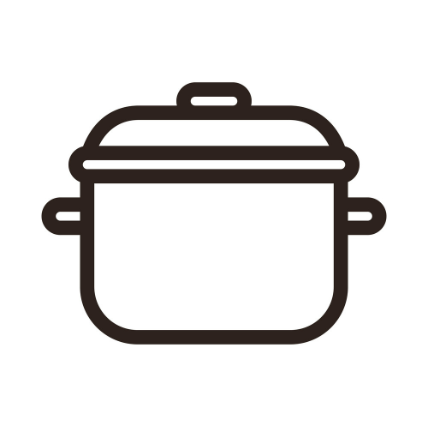
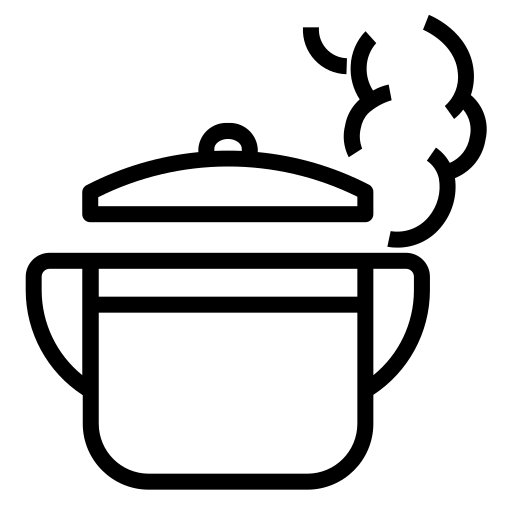
added images to recipe.html and design

Changed region(s): [[0.0305, 0.0305, 0.9765, 0.9765]]

diff --git a/recipe.js b/recipe.js
@@ -26,14 +26,18 @@ async function fetchData() {
     document.getElementById('source').innerText=data.sourceName;
     for(let i=0; i<data.extendedIngredients.length; i++){
       const elem=document.createElement('span');
-      elem.innerText=data.extendedIngredients[i].name;
-      document.getElementById('ingredients').appendChild(elem);
-    }
+
+        elem.innerText=data.extendedIngredients[i].measures.metric.amount +' '+ data.extendedIngredients[i].measures.metric.unitShort + "  " + data.extendedIngredients[i].name ;
+        document.getElementById('ingredients').appendChild(elem);
+        console.log(elem);
+
+  }
+
     for(let i=0; i<data.analyzedInstructions.length; i++){
       for(let j=0; j<data.analyzedInstructions[i].steps.length; j++){
       const elem=document.createElement('li');
       elem.innerText=data.analyzedInstructions[i].steps[j].step;
-      console.log(elem);
+      //console.log(elem);
       document.getElementById('ol').appendChild(elem);
       }
   }

diff --git a/recipe.css b/recipe.css
@@ -1,10 +1,18 @@
+body{
+    font-family:Verdana, Geneva, Tahoma, sans-serif;
+    font-weight:normal;
+    background-color: #2d2d30;
+    color: #ffffff; 
+    font-size: 50px;
+}
+
 #title{
     text-align: center;
 }
 
 #container{
     display: grid;
-    grid-template-columns: auto auto auto;
+    grid-template-columns: 31% 38% 31%;
     font-size: 20px;
     font-family: 'Segoe UI', Tahoma, Geneva, Verdana, sans-serif;
     text-align: center;
@@ -31,8 +39,8 @@
 }
 
 #icon{
-    width: 50px;
-    height: 50px;
+    width: 90px;
+    height: 90px;
 }
 
 #description{
@@ -54,3 +62,4 @@
 #steps{
     width: 55%;
 }
+

diff --git a/recipe.html b/recipe.html
@@ -8,7 +8,7 @@
   </head>
   <body>
 
-    <h1 id="title"></h1>
+    <h3 id="title"></h3>
     <div id="container">    
     <div id="prep">
         <img id="icon" src="images/pot.png">
@@ -47,7 +47,7 @@
 
     <div id="description">
         <div id="ingredients">
-            <span><b><i>Ingredients</i></b></span>
+            <span style="padding-bottom: 20px;"><b><i>Ingredients</i></b></span>
         </div>
         <div id="steps">
             <span><b><i>Steps</i></b></span>
